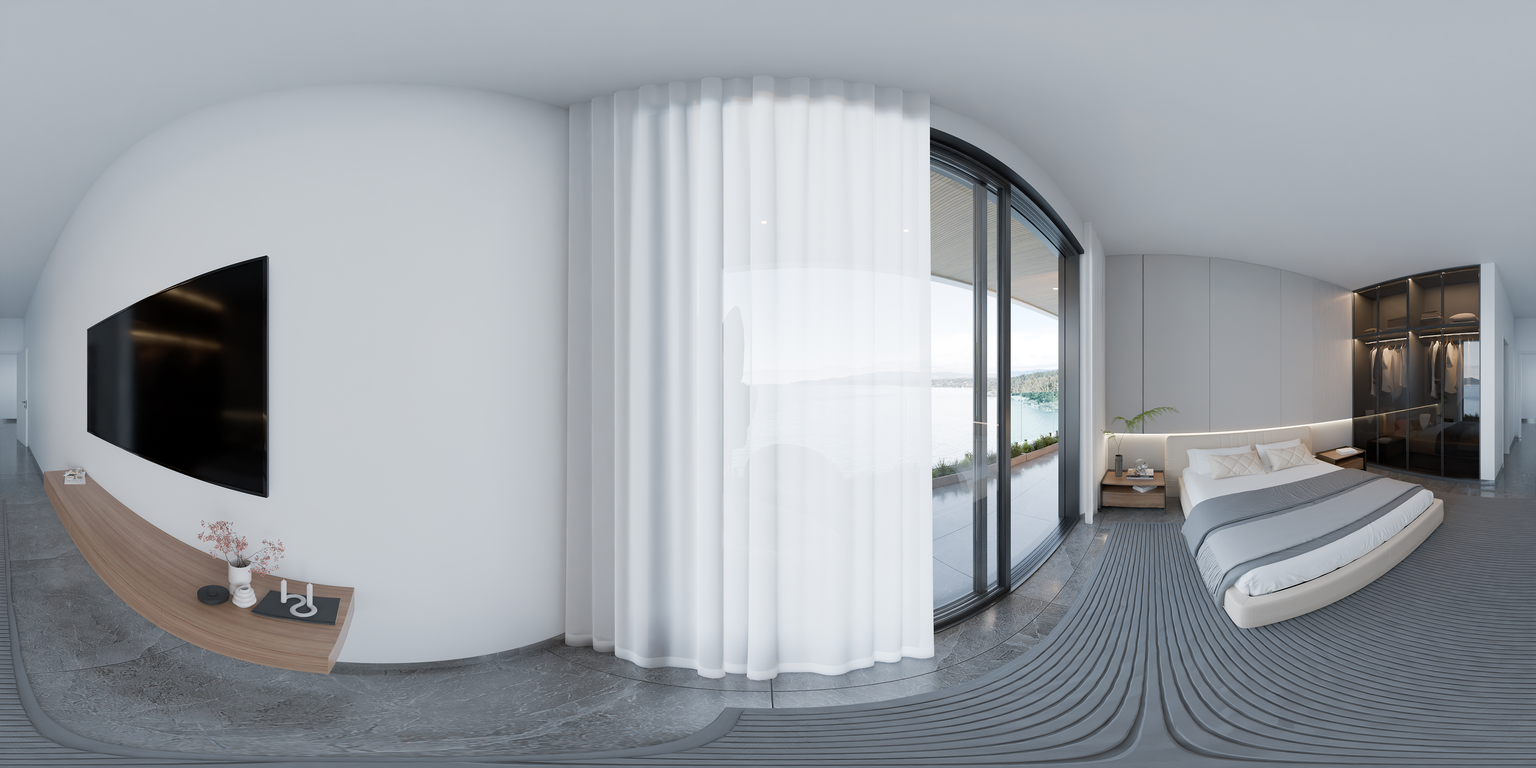
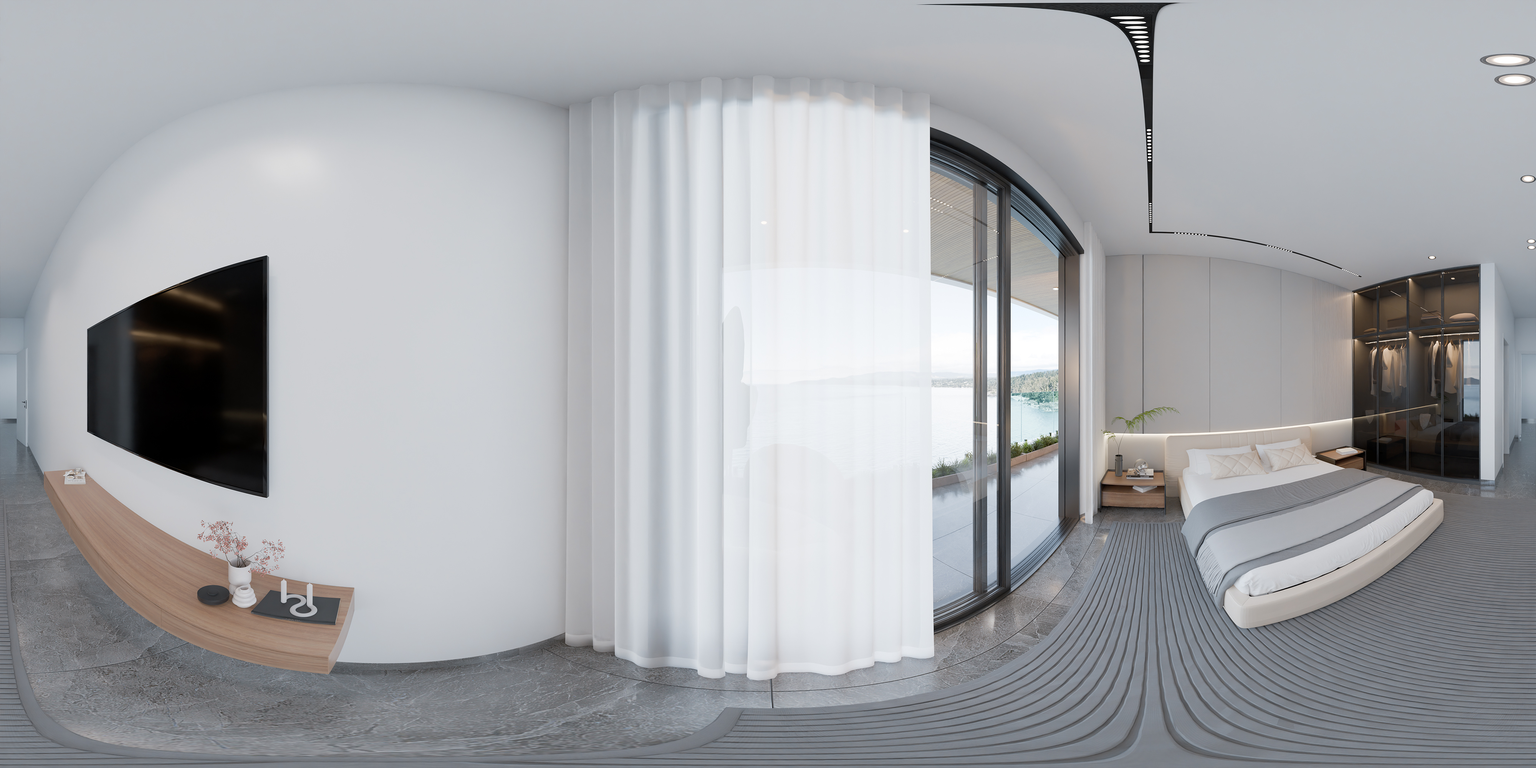
first commit-4

diff --git a/index.html b/index.html
@@ -492,11 +492,16 @@ rotation="-81.33651563897654 115.90936195496555 -25.96530135973865"
           opacity=".5"
           class="Dote"
           material="src: #Arrow-1; transparent:true"
-          position="4.54208 -1.53026 0.12669"
-          rotation="-70.68809501647019 -112.95748339445153 -5.824688945299949"
-          the_dote="Name_of_dote: Dote-9 ; Group_to_activate: Group-9 ; The_rotation: 0"
+      position="2.58437 -1.53026 -0.14035"
+  rotation="-70.68809501647019 -112.95748339445153 -5.824688945299949"
+          the_dote="Name_of_dote: Dote-11 ; Group_to_activate: Group-11 ; The_rotation: 0"
         >
         </a-plane>
+
+
+        
+
+
 
         <a-plane
           data-clickable
@@ -504,11 +509,18 @@ rotation="-81.33651563897654 115.90936195496555 -25.96530135973865"
           opacity=".5"
           class="Dote"
           material="src: #Arrow-1; transparent:true"
-          position="-5.22404 -1.53026 2.31491"
-          rotation="-75.63042895726866 79.12661742315694 154.47343227183586"
-          the_dote="Name_of_dote: Dote-11 ; Group_to_activate: Group-11 ; The_rotation: 0"
+        position="-0.34008 -1.53026 -3.19358" 
+  rotation="-75.63042895726866 79.12661742315694 154.47343227183586" 
+          the_dote="Name_of_dote: Dote-9 ; Group_to_activate: Group-9 ; The_rotation: 0"
         >
         </a-plane>
+
+
+
+        
+
+
+
       </a-entity>
       <!-- Group-11 -->
       <a-entity scale="0 0 0" class="groups" id="Group-11" visible="false">
@@ -518,23 +530,33 @@ rotation="-81.33651563897654 115.90936195496555 -25.96530135973865"
           opacity=".5"
           class="Dote"
           material="src: #Arrow-1; transparent:true"
-          position="4.62585 -1.72383 -2.35887"
-          rotation="-69.04084135546907 -89.94406059522689 -29.30793713653187"
+  position="-3.07597 -1.72383 -0.01952"
+   rotation="-72.50895488939594 91.48646297971906 -9.693299978023267"
           the_dote="Name_of_dote: Dote-10 ; Group_to_activate: Group-10 ; The_rotation: 0"
         >
         </a-plane>
+
+
+
+        
+
 
         <a-plane
           data-clickable
           scale="0.9 0.9 0.9"
           opacity=".5"
           class="Dote"
-          material="src: #Arrow-2; transparent:true"
-          position="-1.65048 -1.72383 0.07847"
-          rotation="-72.50895488939594 91.48646297971906 -9.693299978023267"
-          the_dote="Name_of_dote: Dote-29 ; Group_to_activate: Group-29 ; The_rotation: 0"
+          material="src: #Arrow-1; transparent:true"
+      position="3.19133 -1.72383 0.04691"
+ rotation="-64.0056882518594 -125.29899430156946 8.97882160749513"
+          the_dote="Name_of_dote: Dote-12 ; Group_to_activate: Group-12 ; The_rotation: 0"
         >
         </a-plane>
+
+
+        
+
+
       </a-entity>
       <!-- Group-12 -->
       <a-entity scale="0 0 0" class="groups" id="Group-12" visible="false">
@@ -544,23 +566,17 @@ rotation="-81.33651563897654 115.90936195496555 -25.96530135973865"
           opacity=".5"
           class="Dote"
           material="src: #Arrow-1; transparent:true"
-          position="-0.08397 -1.72383 -3.60276"
-          rotation="-67.0486671017992 17.029451586878327 -133.44989189510056"
-          the_dote="Name_of_dote: Dote-9 ; Group_to_activate: Group-9 ; The_rotation: 0"
+      position="-3.34732 -1.72383 -0.02894" 
+    rotation="-81.14915843996876 47.92333590033232 -165.28056220359343"
+          the_dote="Name_of_dote: Dote-11 ; Group_to_activate: Group-11 ; The_rotation: 0"
         >
         </a-plane>
 
-        <a-plane
-          data-clickable
-          scale="0.9 0.9 0.9"
-          opacity=".5"
-          class="Dote"
-          material="src: #Arrow-1; transparent:true"
-          position="3.44237 -1.33117 0.20373"
-          rotation="-65.00607256215781 -122.15861262645744 5.500394833255903"
-          the_dote="Name_of_dote: Dote-13 ; Group_to_activate: Group-13 ; The_rotation: 0"
-        >
-        </a-plane>
+
+        
+        
+
+
       </a-entity>
       <!-- Group-13 -->
       <a-entity scale="0 0 0" class="groups" id="Group-13" visible="false">
@@ -1069,7 +1085,7 @@ rotation="-81.33651563897654 115.90936195496555 -25.96530135973865"
         }
       };
 
-      setStart(6);
+      setStart(0);
 
       AFRAME.registerComponent("the_dote", {
         schema: {
